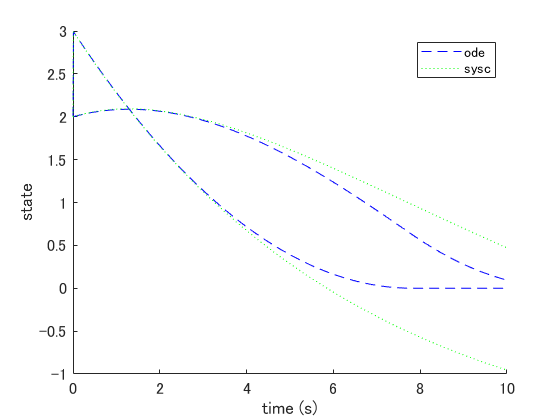
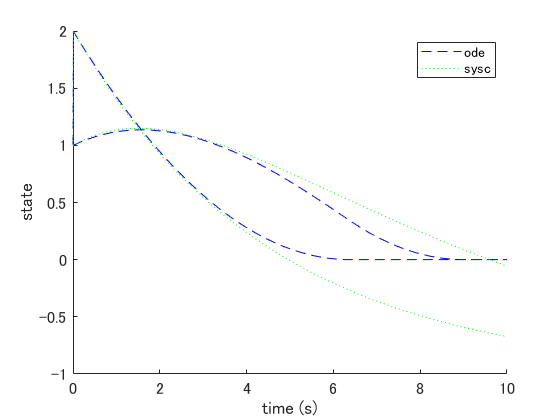
Change the way to determine the equilibrium point.

diff --git a/pendulum/tests/plot_bode.m b/pendulum/tests/plot_bode.m
@@ -1,12 +1,12 @@
 function plot_bode()
     thetae = 0;
-    assignin("base","x0",[thetae;0]);
-    assignin("base","option",struct("thetae",thetae));
-
-    [A,B,C,D] = linmod("plant_simscape");
     param = plant_param();
     option = struct("thetae",thetae);
     sysc = plant_sysc(param,option);
+
+    assignin("base","x0",sysc.xe);
+    assignin("base","option",option);
+    [A,B,C,D] = linmod("plant_simscape");
 
     figure("Name","pendulum bode plot");
     opts = bodeoptions;

diff --git a/water_tank/tests/plot_bode.m b/water_tank/tests/plot_bode.m
@@ -1,12 +1,12 @@
 function plot_bode()
     ze = 1;
-    assignin("base","x0",[ze;0]);
-    assignin("base","option",struct("ze",ze));
-
-    % [A,B,C,D] = linmod("plant_simscape");
     param = plant_param();
     option = struct("ze",ze);
     sysc = plant_sysc(param,option);
+
+    assignin("base","x0",sysc.xe);
+    assignin("base","option",option);
+    % [A,B,C,D] = linmod("plant_simscape");
 
     figure("Name","water_tank bode plot");
     opts = bodeoptions;

diff --git a/pendulum/tests/plot_impulse.m b/pendulum/tests/plot_impulse.m
@@ -1,8 +1,11 @@
 function plot_impulse()
     thetae = 0;
-    assignin("base","x0",[thetae;0]);
-    assignin("base","option",struct("thetae",thetae));
+    param = plant_param();
+    option = struct("thetae",thetae);
+    sysc = plant_sysc(param,option);
 
+    assignin("base","x0",sysc.xe);
+    assignin("base","option",option);
     simIn = Simulink.SimulationInput("simulation_impulse");
     simOut = sim(simIn);
 

diff --git a/water_tank/tests/plot_impulse.m b/water_tank/tests/plot_impulse.m
@@ -1,8 +1,11 @@
 function plot_impulse()
     ze = 1;
-    assignin("base","x0",ze);
-    assignin("base","option",struct("ze",ze));
+    param = plant_param();
+    option = struct("ze",ze);
+    sysc = plant_sysc(param,option);
 
+    assignin("base","x0",sysc.xe);
+    assignin("base","option",option);
     simIn = Simulink.SimulationInput("simulation_impulse");
     simOut = sim(simIn);
 

diff --git a/mass_damper_spring_2DOF/tests/plot_bode.m b/mass_damper_spring_2DOF/tests/plot_bode.m
@@ -1,9 +1,9 @@
 function plot_bode()
-    assignin("base","x0",[0;0;0;0]);
-
-    [A,B,C,D] = linmod("plant_simscape");
     param = plant_param();
     sysc = plant_sysc(param);
+
+    assignin("base","x0",sysc.xe);
+    [A,B,C,D] = linmod("plant_simscape");
 
     figure("Name","mass_damper_spring_2DOF bode plot");
     opts = bodeoptions;

diff --git a/mass_damper_2DOF/tests/plot_bode.m b/mass_damper_2DOF/tests/plot_bode.m
@@ -1,9 +1,9 @@
 function plot_bode()
-    assignin("base","x0",[0;0;0;0]);
-
-    [A,B,C,D] = linmod("plant_simscape");
     param = plant_param();
     sysc = plant_sysc(param);
+
+    assignin("base","x0",sysc.xe);
+    [A,B,C,D] = linmod("plant_simscape");
 
     figure("Name","mass_damper_2DOF bode plot");
     opts = bodeoptions;

diff --git a/water_tank_2DOF/tests/plot_impulse.m b/water_tank_2DOF/tests/plot_impulse.m
@@ -1,12 +1,11 @@
 function plot_impulse()
-    z2e = 2;
+    z2e = 1;
     param = plant_param();
     option = struct("z2e",z2e);
     sysc = plant_sysc(param,option);
 
     assignin("base","x0",sysc.xe);
     assignin("base","option",option);
-
     simIn = Simulink.SimulationInput("simulation_impulse");
     simOut = sim(simIn);
 

diff --git a/mass_damper_spring/tests/plot_bode.m b/mass_damper_spring/tests/plot_bode.m
@@ -1,9 +1,9 @@
 function plot_bode()
-    assignin("base","x0",[0;0]);
-
-    [A,B,C,D] = linmod("plant_simscape");
     param = plant_param();
     sysc = plant_sysc(param);
+
+    assignin("base","x0",sysc.xe);
+    [A,B,C,D] = linmod("plant_simscape");
 
     figure("Name","mass_damper_spring bode plot");
     opts = bodeoptions;

diff --git a/mass_damper/tests/plot_bode.m b/mass_damper/tests/plot_bode.m
@@ -1,9 +1,9 @@
 function plot_bode()
-    assignin("base","x0",[0;0]);
-
-    [A,B,C,D] = linmod("plant_simscape");
     param = plant_param();
     sysc = plant_sysc(param);
+
+    assignin("base","x0",sysc.xe);
+    [A,B,C,D] = linmod("plant_simscape");
 
     figure("Name","mass_damper bode plot");
     opts = bodeoptions;

diff --git a/mass_damper_spring_2DOF/tests/plot_impulse.m b/mass_damper_spring_2DOF/tests/plot_impulse.m
@@ -1,6 +1,8 @@
 function plot_impulse()
-    assignin("base","x0",[0;0;0;0]);
+    param = plant_param();
+    sysc = plant_sysc(param);
 
+    assignin("base","x0",sysc.xe);
     simIn = Simulink.SimulationInput("simulation_impulse");
     simOut = sim(simIn);
 

diff --git a/mass_damper_2DOF/tests/plot_impulse.m b/mass_damper_2DOF/tests/plot_impulse.m
@@ -1,6 +1,8 @@
 function plot_impulse()
-    assignin("base","x0",[0;0;0;0]);
+   param = plant_param();
+    sysc = plant_sysc(param);
 
+    assignin("base","x0",sysc.xe);
     simIn = Simulink.SimulationInput("simulation_impulse");
     simOut = sim(simIn);
 

diff --git a/mass_damper/tests/plot_impulse.m b/mass_damper/tests/plot_impulse.m
@@ -1,6 +1,8 @@
 function plot_impulse()
-    assignin("base","x0",[0;0]);
+    param = plant_param();
+    sysc = plant_sysc(param);
 
+    assignin("base","x0",sysc.xe);
     simIn = Simulink.SimulationInput("simulation_impulse");
     simOut = sim(simIn);
 
